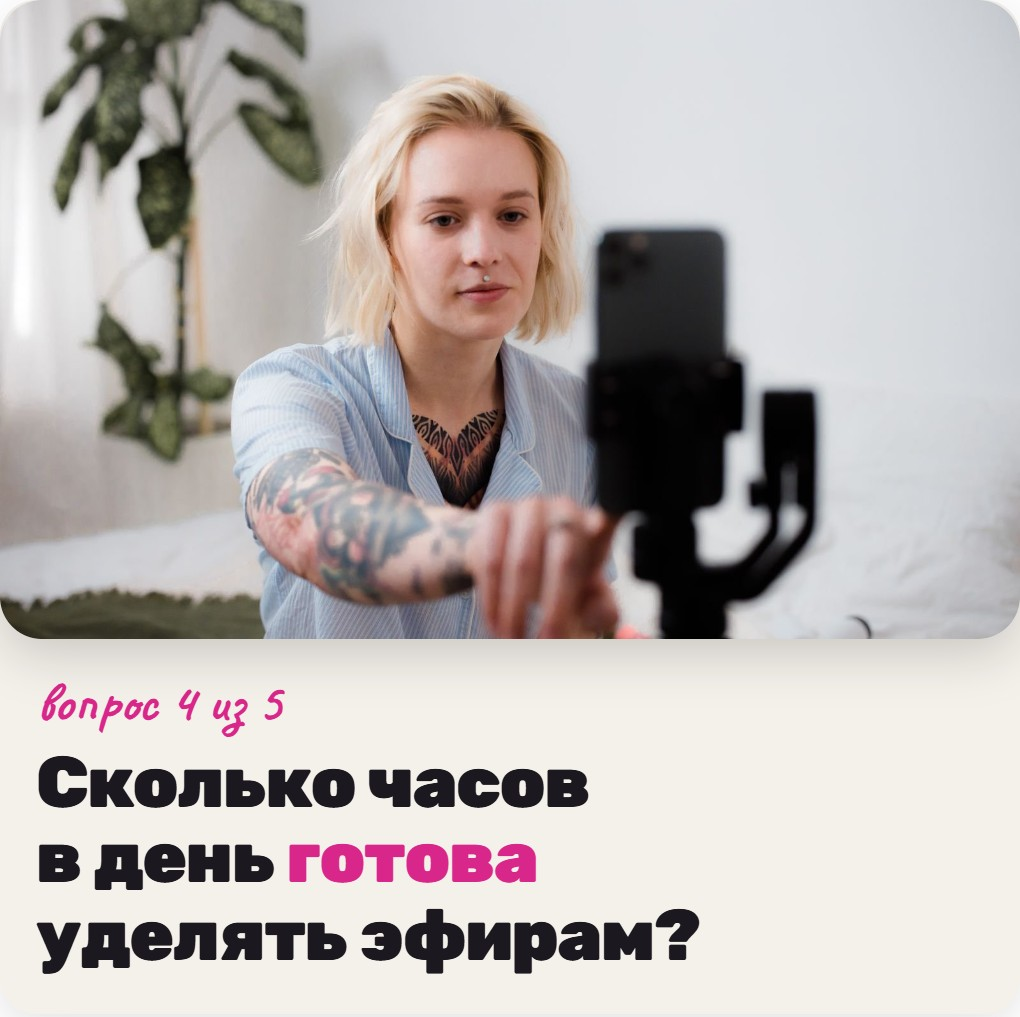
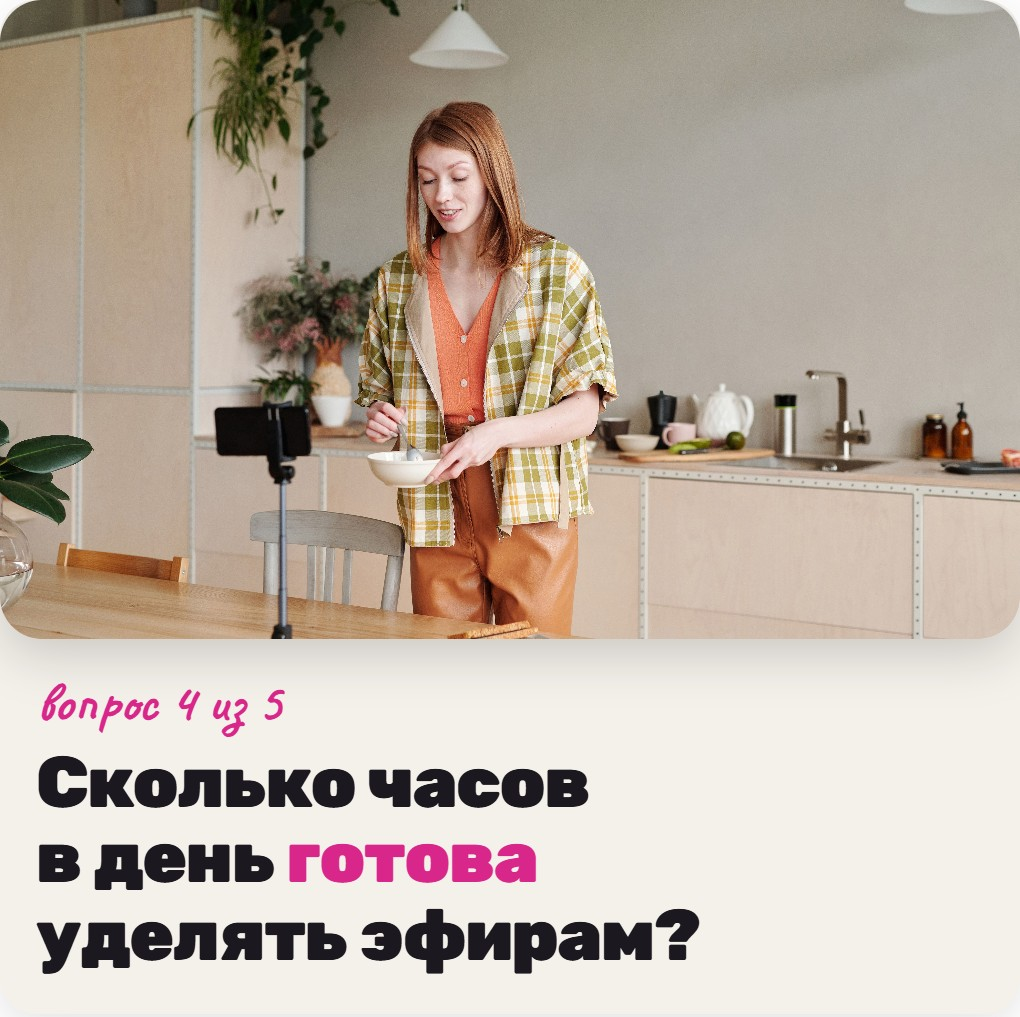
Решения Артёма 26.10: короче тексты «Работа в команде», «О студии», цена; фото s4 и «Тебя увидят» заменены

diff --git a/content.py b/content.py
@@ -125,9 +125,8 @@ S["fork"] = [
          kb=[[("🚀 Партнёр TeamUniverse", "g:p1")], [("👥 В команде · 50 на 50", "g:aIntro")]])]
 
 S["aIntro"] = [
-    dict(media="card:aIntro", text="Ни за вход, ни за обучение не платишь. Аккаунт на старте даёт центр, куратор рядом. Заработала — доход делим 50 на 50: "
-              "половина тебе, половина центру.\n\nОтбор серьёзный: мы вкладываем в каждую время и ресурсы и ждём такой же отдачи. "
-              "Анкета — {n} коротких вопросов, и два видео. Стандартно — Москва и область, остальные регионы решаем индивидуально на собеседовании.",
+    dict(media="card:aIntro", text="Ни за вход, ни за обучение не платишь. Аккаунт на старте даёт центр, куратор рядом. Заработала — доход делим 50 на 50.\n\n"
+              "Отбор серьёзный. Анкета — {n} коротких вопросов и два видео. Стандартно — Москва и область, остальные регионы решаем индивидуально на собеседовании.",
          kb=[[("Начать анкету →", "aq0")]])]
 
 S["under18"] = [dict(text="Спасибо за честность! Мы работаем только с ведущими старше 18 — без исключений. Это не формальность, а принцип.\n"
@@ -189,8 +188,8 @@ P1 = [
 ]
 
 S["p3"] = [
-    dict(media="card:p3", text="Партнёрство стоит 350 000 ₽ — без «узнаешь на созвоне».\n\nПлатить сейчас не нужно. Сначала — бесплатная консультация с "
-              "представителем TeamUniverse: разберём твою ситуацию, ответим на вопросы и покажем договор. Оплата — только после разговора.",
+    dict(media="card:p3", text="Партнёрство стоит 350 000 ₽ — без «узнаешь на созвоне».\n\nПлатить сейчас не нужно: сначала бесплатная консультация с "
+              "представителем TeamUniverse — разберём твою ситуацию и покажем договор.",
          kb=[[("📞 Бесплатная консультация", "g:bQ1")], [("📄 Договор", "g:contract"), ("📈 Посчитать доход", "g:calc")],
              [("Пока подумаю", "g:think")]])]
 
@@ -285,10 +284,8 @@ S["offerPro"] = [dict(media="card:offerPro",
 OFFER_BIG = "Ты целишься в {want} в месяц — под такую цель у нас есть партнёрство"
 OFFER_PRO = "Под твою цель у нас есть партнёрство"
 
-S["about"] = [dict(media="video:about", text="TeamUniverse — продюсерский центр в ТикТоке. Находим ведущих, учим и ведём до результата. Работаем онлайн.\n\n"
-                        "<b>Основатели</b> — Антон и Денис.\n\n"
-                        "<b>Как работаем:</b> отбор → подготовка с куратором → первые эфиры и баттлы.\n"
-                        "<b>Форматы:</b> в команде (заработала — доход делим 50 на 50) и Партнёр TeamUniverse (90% дохода тебе).",
+S["about"] = [dict(media="video:about", text="TeamUniverse — продюсерский центр в ТикТоке, работаем онлайн. Основатели — Антон и Денис.\n\n"
+                        "<b>Форматы:</b> в команде (доход делим 50 на 50) и Партнёр TeamUniverse (90% дохода тебе).",
                    kb=[[("▶ Ещё пример баттла", "g:t2v")], [("📢 Канал", "g:channel"), ("🧭 Тест", "g:testIntro")]])]
 S["t2v"] = [dict(media="video:t2v")]
 
